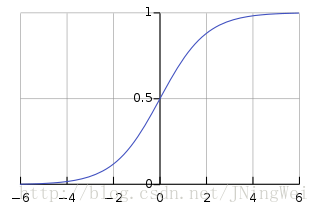
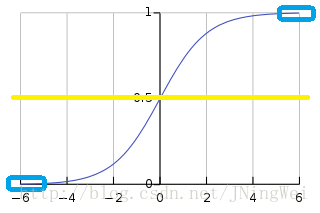
20200521, ML & DL, activations

Changed region(s): [[0.0312, 0.4225, 0.9688, 0.4789], [0.8438, 0.0, 1.0, 0.1127], [0.0, 0.8169, 0.1562, 0.9014]]

diff --git a/MachineLearning_and_DeepLearning/Activations/深度学习-激活函数.md b/MachineLearning_and_DeepLearning/Activations/深度学习-激活函数.md
@@ -14,20 +14,113 @@
 Sigmoid函数，即著名的 Logistic 函数。
 被用作神经网络的阈值函数，将变量映射到 (0，1) 之间
 
-### 2.2 tanh
+| Sigmoid  |
+|:------------:|
+| ![sigmoid_equation](./images/sigmoid_equation.png) |
+| ![sigmoid_image](./images/sigmoid_image.png) |
 
-### 2.3 Relu
+* 期望均值为0.5, 不符合**均值为0**的理想状态。
+* 当 Sigmoid 函数落到`(-inf, -5) U (5, inf)` 时候，梯度几乎为0，发生**梯度弥散**。因此也就存在两块**死区**。
+* Sigmoid 函数饱和会使梯度消失(梯度弥散)
+* Sigmoid函数的输出不是零中心的。
+
+### 2.2 tanh (双曲正切)
+| tanh  |
+|:------------:|
+| ![tanh_equation](./images/tanh_equation.png) |
+| ![tanh_image](./images/tanh_image.jpeg) |
+
+* 期望的均值移动到了 0。
+* 无法回避两块死区，并且略有扩大。
+
+> **为了防止饱和，现在主流的做法会在激活函数前多做一步batch normalization，尽可能保证每一层网络的输入具有均值较小的、零中心的分布。**
+
+### 2.3 Softmax
+| Softmax  |
+|:------------:|
+| ![Softmax_equation](./images/softmax_equation.png) |
+| ![Softmax_image](./images/softmax_image.jpg) |
+* Softmax 用于多分类神经网络的输出，目的是让大概率的更大。
+* Softmax 是 sigmoid 的扩展。当类别数 k==2 的时候，softmax 回归退化为 Logistic 回归。
+*
+
+### 2.3 Relu (Rectified Linear Unit， 修正线性单元)
+| Relu  |
+|:------------:|
+| ![relu_equation](./images/Relu_equation.png) |
+| ![relu_image](./images/Relu_image.png) |
+
+* 当下设计的标配，与 Relu 一起应用的有两个一下的标配
+    * He初始化(对 relu 网络有利)
+    * conv -> bn -> relu (默认采用 relu)
+
+优点：
+* 彻底消灭正半轴的死区
+* 计算超简单
+* 有助于是模型参数稀疏
+
+缺陷：
+* 期望距离 0 更远了。
+* 负半轴的死区范围更广了。
 
 ### 2.4 Relu6
+| Relu6  |
+|:------------:|
+| ![relu6_equation](./images/Relu6_equation.png) |
+
+优点：
+* 对 正半轴 施加 **非线性约束**
+* 计算简单
+
+缺点：
+* 期望不为 0
+* 正半轴死区重现
+
+BN 出现后，activation 的输入被归一化到(-1, 1)，所以死区的影响就没有那么打了，relu6 也就没有必要了。
 
 ### 2.5 LeakyRelu
+| Leaky_Relu  |
+|:------------:|
+| ![Leaky_Relu_equation](./images/Leaky_Relu_equation.png) |
+| ![Leaky_Relu_image](./images/Leaky_Relu_image.png) |
+
+优点：
+* 没有死区
+
+缺点：
+* 期望依然不为 0
+* 参数 lambda 难以设定，导致**性能不稳定**
 
 ### 2.6 参数化Relu
 
 ### 2.7 随机化Relu
 
-### 2.8 ELU
+### 2.8 ELU (Exponential Linear Unit, 指数化线性单元)
+| ELU  |
+|:------------:|
+| ![ELU_equation](./images/ELU_equation.png) |
+
+优点：
+* 没有死区
+
+缺点：
+* 期望不为 0
+* 计算复杂
+
+## 简单总结
+* Sigmoid 和 tanh 不建议
+* Relu 最常用
+* CNN 标配的module："conv -> bn -> relu"
 
 
-
+## Reference:
+1. [tensorflow: 激活函数(Activation_Functions) 探究](https://blog.csdn.net/JNingWei/article/details/77855733)
+2. [常用激活函数的比较](https://zhuanlan.zhihu.com/p/32610035)
+3. [CS231n课程笔记翻译：神经网络笔记1（上）](https://zhuanlan.zhihu.com/p/21462488?refer=intelligentunit)
+4. [【机器学习】神经网络-激活函数-面面观(Activation Function)](https://blog.csdn.net/cyh_24/article/details/50593400)
+5. [Sigmoid vs Softmax 输出层选择](https://zhuanlan.zhihu.com/p/22159946)
+6. [Cross-Entropy or Log Likelihood in Output layer](https://stats.stackexchange.com/questions/198038/cross-entropy-or-log-likelihood-in-output-layer)
+7. [Comparison between Softmax and Sigmoid for classification output.](https://www.reddit.com/r/MachineLearning/comments/32iyt9/question_comparison_between_softmax_and_sigmoid/)
+8. [Sigmoid 函数和 Softmax 函数的区别和关系](https://blog.nex3z.com/2017/05/02/sigmoid-%E5%87%BD%E6%95%B0%E5%92%8C-softmax-%E5%87%BD%E6%95%B0%E7%9A%84%E5%8C%BA%E5%88%AB%E5%92%8C%E5%85%B3%E7%B3%BB/)
+9. [深度学习常用激活函数之— Sigmoid & ReLU & Softmax](https://blog.csdn.net/Leo_Xu06/article/details/53708647)
 

diff --git a/TensorFlow/TF_ReadMe.md b/TensorFlow/TF_ReadMe.md
@@ -4,10 +4,10 @@
     
 
 To Read:
-[Difference between `tf.data.Dataset.map()` and `tf.data.Dataset.apply()`](https://stackoverflow.com/questions/47091726/difference-between-tf-data-dataset-map-and-tf-data-dataset-apply)
-[Returning dataset from tf.data.Dataset.map() causes 'TensorSliceDataset' object has no attribute 'get_shape' error](https://stackoverflow.com/questions/50809257/returning-dataset-from-tf-data-dataset-map-causes-tensorslicedataset-object)
-[How do you send arguments to a generator function using tf.data.Dataset.from_generator()?](https://stackoverflow.com/questions/52443273/how-do-you-send-arguments-to-a-generator-function-using-tf-data-dataset-from-gen)
-[How can parse_fn be put into tf.data.map without arguments? ](https://github.com/tensorflow/tensorflow/issues/23322)
-[tf.data: Build TensorFlow input pipelines](https://s0www0tensorflow0org.icopy.site/guide/data)
+- [ ] [Difference between `tf.data.Dataset.map()` and `tf.data.Dataset.apply()`](https://stackoverflow.com/questions/47091726/difference-between-tf-data-dataset-map-and-tf-data-dataset-apply)
+- [ ] [Returning dataset from tf.data.Dataset.map() causes 'TensorSliceDataset' object has no attribute 'get_shape' error](https://stackoverflow.com/questions/50809257/returning-dataset-from-tf-data-dataset-map-causes-tensorslicedataset-object)
+- [ ] [How do you send arguments to a generator function using tf.data.Dataset.from_generator()?](https://stackoverflow.com/questions/52443273/how-do-you-send-arguments-to-a-generator-function-using-tf-data-dataset-from-gen)
+- [ ] [How can parse_fn be put into tf.data.map without arguments? ](https://github.com/tensorflow/tensorflow/issues/23322)
+- [ ] [tf.data: Build TensorFlow input pipelines](https://s0www0tensorflow0org.icopy.site/guide/data)
 
 

diff --git a/MachineLearning_and_DeepLearning/ReadMe.md b/MachineLearning_and_DeepLearning/ReadMe.md
@@ -1,9 +1,8 @@
 1. [Loss](./Losses/)
-* [How to choose loss functions](./Losses/How_to_Choose_Loss_Functions_When_Training_Deep_Learning_Neural_Networks.md)
-* [Loss_总结](./Losses/Loss_总结.md)
-
+    * [Loss_总结](./Losses/Loss_总结.md)
+    * [How to choose loss functions](./Losses/How_to_Choose_Loss_Functions_When_Training_Deep_Learning_Neural_Networks.md)
 2. [Activations](./Activations/)
-* 
+    * [Activations_总结](./Activations/Activations_总结.md)
 
 <!-- | ID  | Topic           | References  |
 |:---:|:---------------:|:------:|
